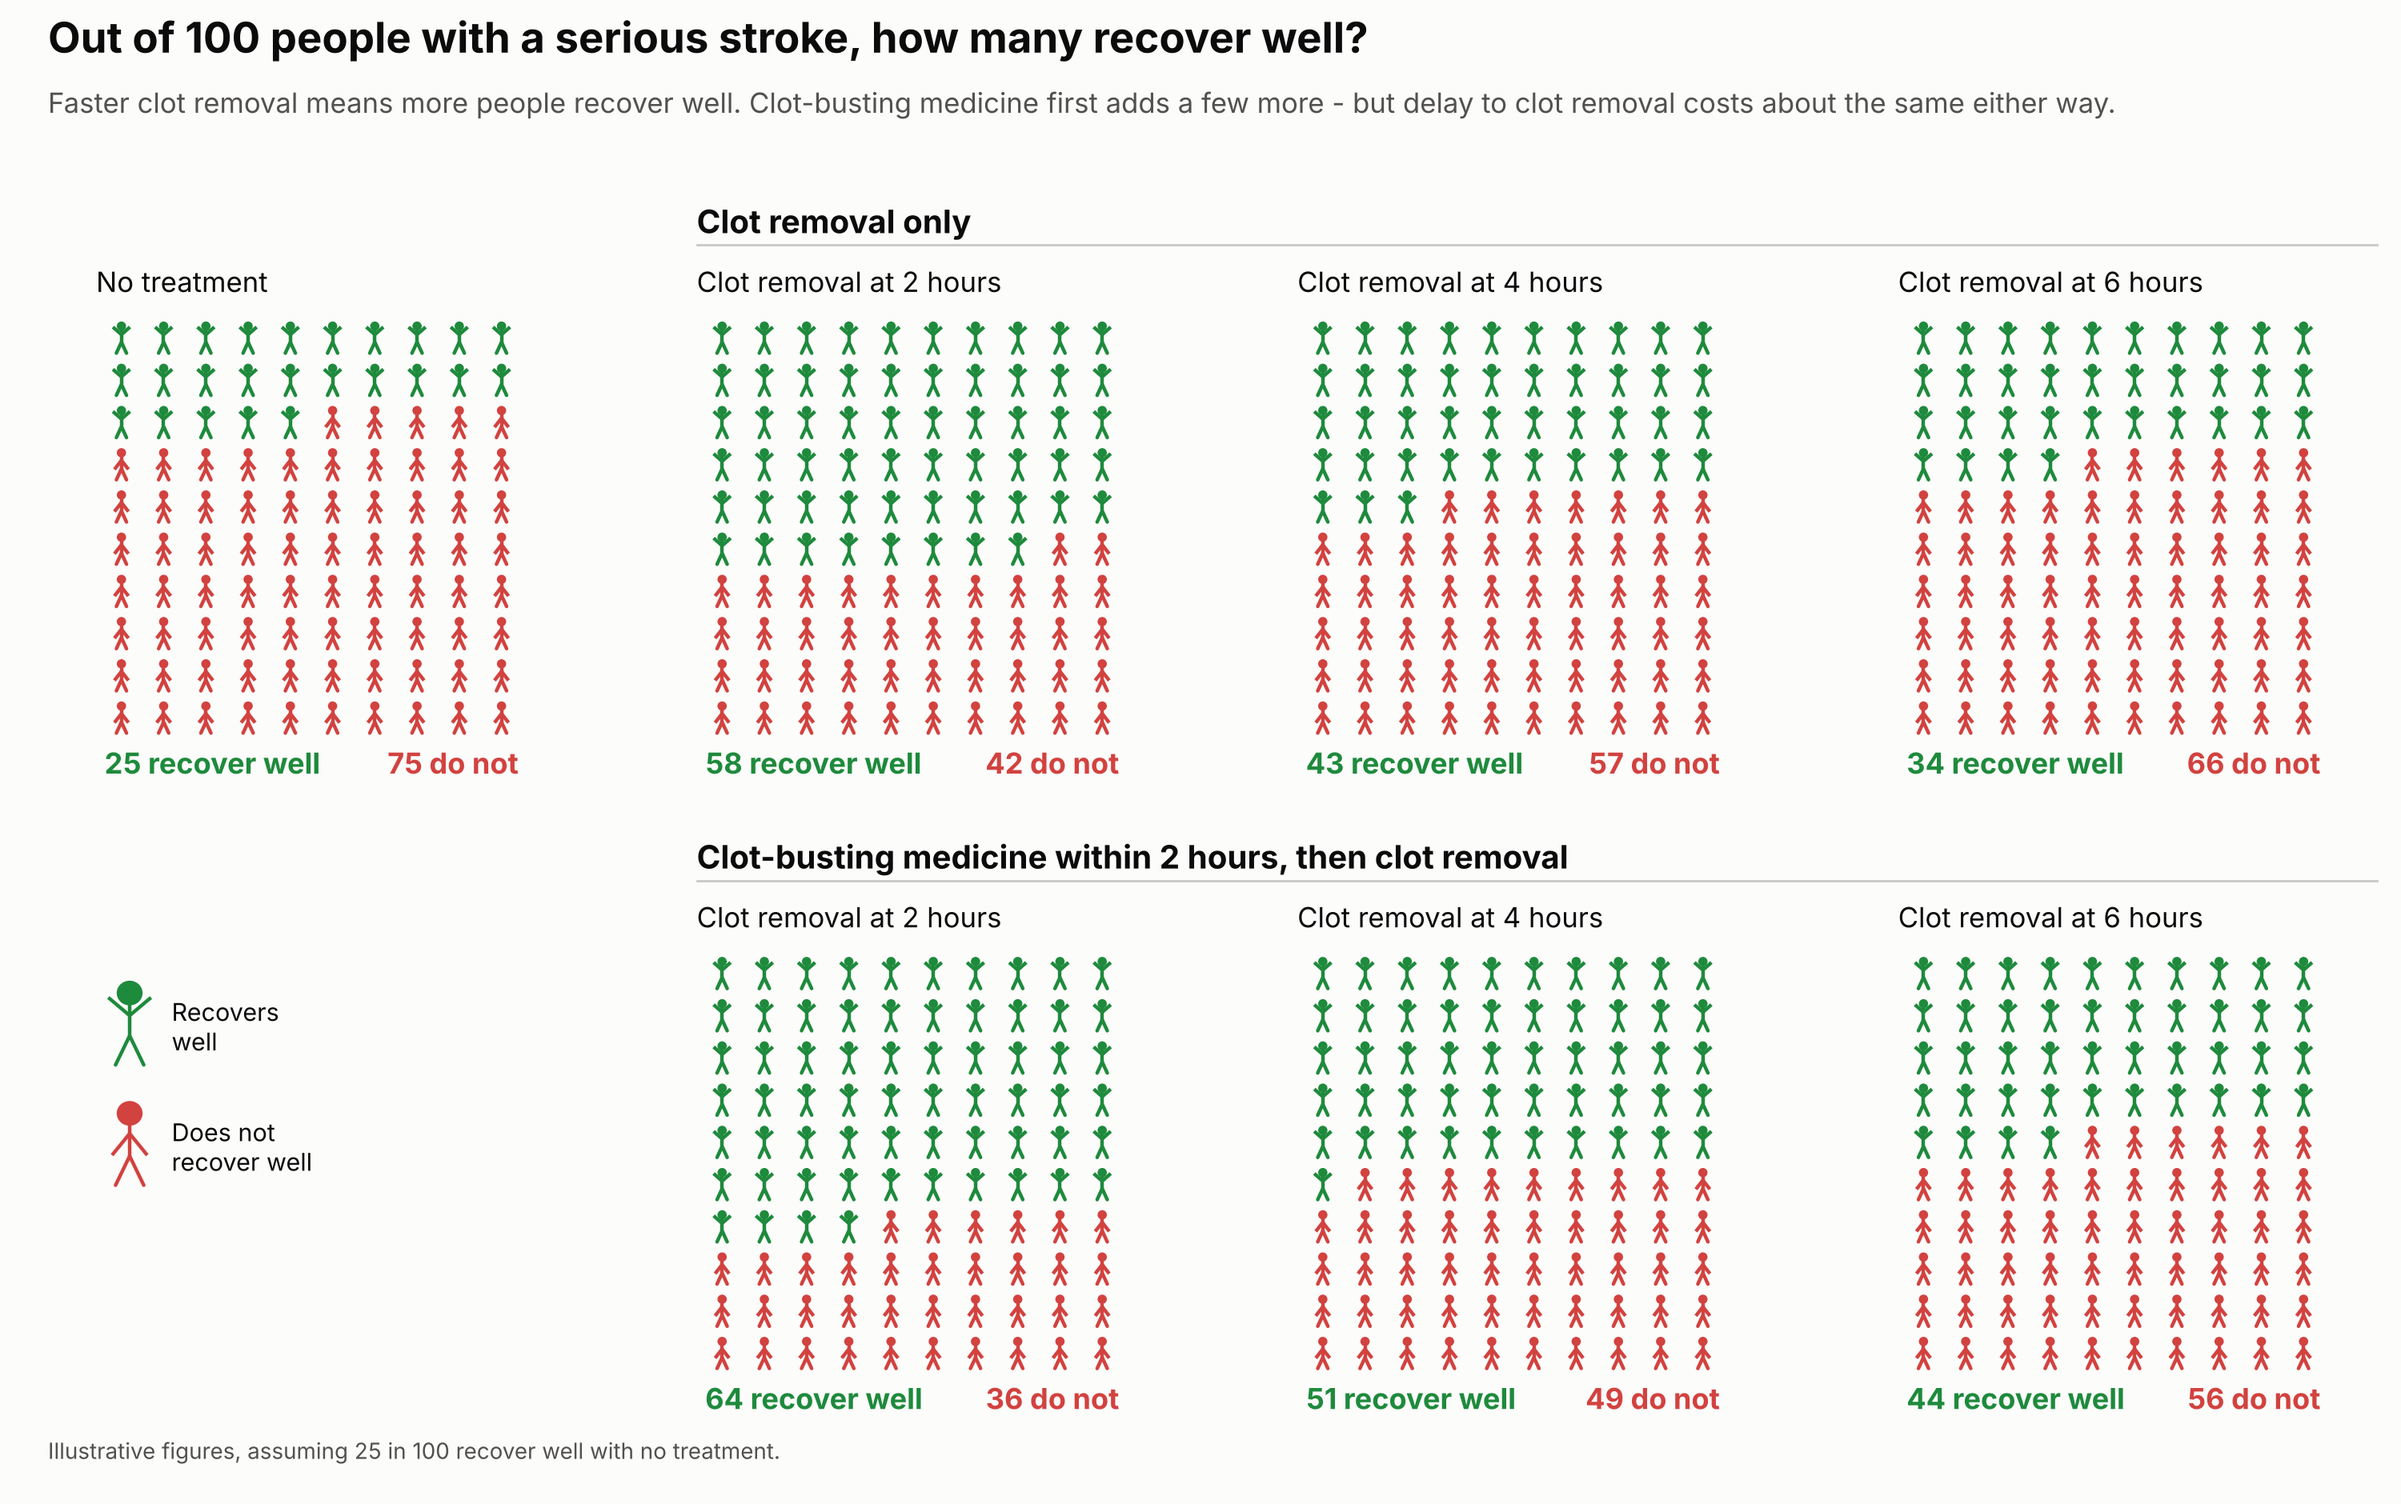
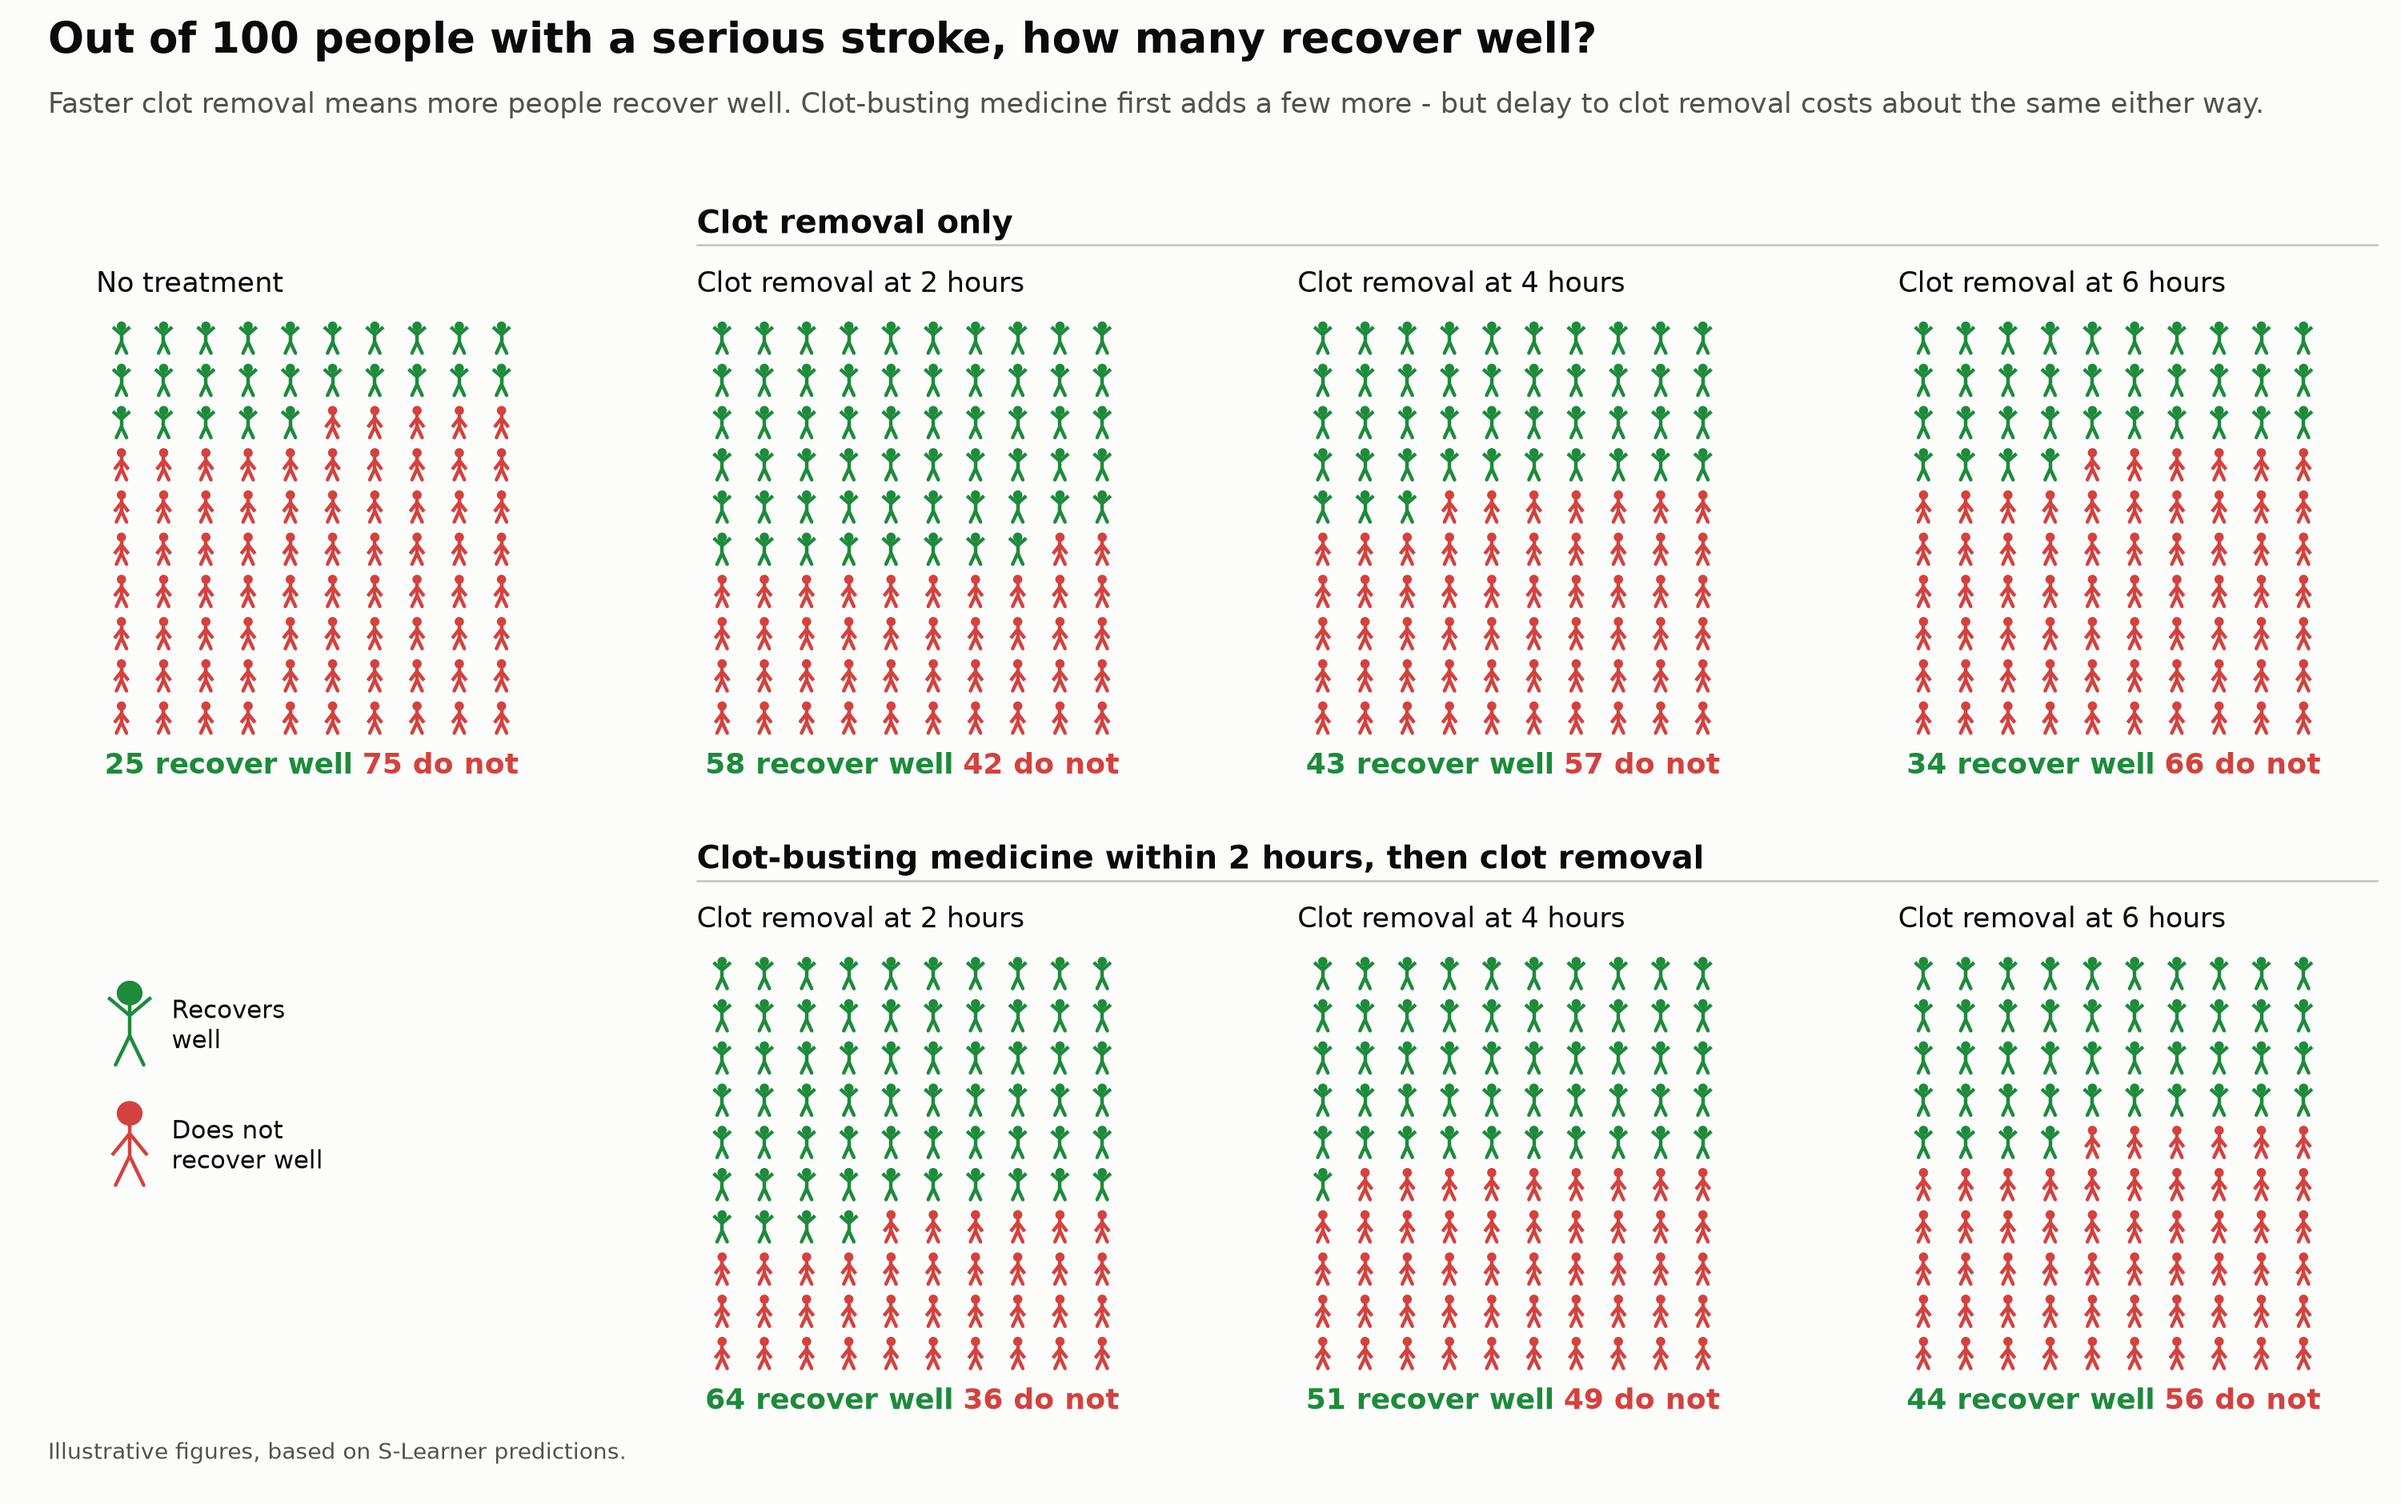
Add stickment code

diff --git a/misc/stickmen_rows.py b/misc/stickmen_rows.py
@@ -1,0 +1,90 @@
+"""Each scenario as one horizontal line of 100 people (green = recovers well).
+
+logit(p) = logit(BASELINE) + net benefit (log odds ratio, read by eye from the S-learner figure).
+"""
+import numpy as np
+import matplotlib.pyplot as plt
+from matplotlib.patches import Circle, Rectangle
+
+BASELINE = 0.25
+IVT_ONLY = 0.74   # log OR, IVT at 2 h without thrombectomy (interpolated from 60-120 and 120-180 bins)
+LOR = {"none": {2: 1.43, 4: 0.81, 6: 0.43, 8: 0.27, 10: 0.10},
+       "ivt":  {2: 1.66, 4: 1.13, 6: 0.85, 8: 0.73, 10: 0.70}}
+
+GOOD, BAD = "#1e8a3c", "#e3a3a1"
+ANYWAY, HILITE = "#9cc7a7", "#d9efdf"
+INK, MUTED, SURF, RULE = "#0b0b0b", "#52514e", "#fcfcfb", "#d6d5d0"
+
+
+def n_good(lor):
+    lo = np.log(BASELINE / (1 - BASELINE)) + lor
+    return int(round(100 / (1 + np.exp(-lo))))
+
+
+VS = 2.0  # vertical stretch of each figure
+
+
+def stickman(ax, x, y, good, c=None):
+    c = c or (GOOD if good else BAD)
+    lw = 1.8
+    ax.plot(x, y + 0.62 * VS, "o", ms=5.2, color=c, mew=0)
+    ax.plot([x, x], [y + 0.40 * VS, y - 0.15 * VS], color=c, lw=lw, solid_capstyle="round")
+    arms = [y + 0.58 * VS, y + 0.22 * VS, y + 0.58 * VS] if good else [y - 0.10 * VS, y + 0.25 * VS, y - 0.10 * VS]
+    ax.plot([x - 0.32, x, x + 0.32], arms, color=c, lw=lw, solid_capstyle="round")
+    ax.plot([x - 0.26, x, x + 0.26], [y - 0.72 * VS, y - 0.15 * VS, y - 0.72 * VS], color=c, lw=lw,
+            solid_capstyle="round")
+
+
+# (group header or None, row label, n good)
+BASE_N = n_good(0.0)
+rows = [("No treatment", "", n_good(0.0)),
+        ("Clot-busting medicine at 2 hours only", "", n_good(IVT_ONLY))]
+for key, head in [("none", "Clot removal only"), ("ivt", "Clot-busting medicine within 2 hours, then clot removal")]:
+    for i, t in enumerate([2, 4, 6, 8]):
+        rows.append((head if i == 0 else None, f"at {t} hours", n_good(LOR[key][t])))
+
+ROW_H, HEAD_H = 2.4 * VS, 1.5 * VS
+X0 = 0          # first figure x
+fig, ax = plt.subplots(figsize=(17, 6), dpi=200, facecolor=SURF)
+ax.set_facecolor(SURF); ax.axis("off")
+
+y = 0
+for head, lab, k in rows:
+    if head:
+        y -= HEAD_H if y else 1.0 * VS
+        ax.text(-24, y + 0.1 * VS, head, fontsize=14, fontweight="bold", color=INK, va="center")
+        ax.plot([-24, 131], [y - 0.55 * VS] * 2, color=RULE, lw=0.8)
+        y -= ROW_H * 0.72
+    xpos = lambda i: X0 + i + 0.5 * (i // 10)   # small gap every 10 people to help counting
+    if k > BASE_N:   # highlight the extra people who recover because of treatment
+        ax.add_patch(Rectangle((xpos(BASE_N) - 0.55, y - 0.9 * VS), xpos(k - 1) - xpos(BASE_N) + 1.1,
+                               1.8 * VS, color=HILITE, lw=0, zorder=0))
+    for i in range(100):
+        col = ANYWAY if i < BASE_N else (GOOD if i < k else BAD)
+        stickman(ax, xpos(i), y, i < k, col)
+    ax.text(-22, y, lab, fontsize=13, color=INK, va="center")
+    ax.text(106, y + 0.25 * VS, f"{k} recover well", fontsize=13, fontweight="bold", color=INK,
+            va="center", ha="left")
+    if k > BASE_N:
+        ax.text(106, y - 0.45 * VS, f"+{k - BASE_N} because of treatment", fontsize=11.5,
+                color=GOOD, fontweight="bold", va="center", ha="left")
+    y -= ROW_H
+
+XL, XR, YT, YB = -25, 132, 0.0, y - 0.3 * VS
+ax.set_xlim(XL, XR); ax.set_ylim(YB, YT)
+W = 17; plot_h = W * 0.98 * (YT - YB) / (XR - XL)
+FOOT = 0.45
+fig.set_size_inches(W, plot_h + 1.3 + FOOT)
+top = (plot_h + FOOT) / (plot_h + 1.3 + FOOT)
+fig.text(0.02, 1 - 0.45 / (plot_h + 1.3 + FOOT), "Every hour before clot removal (thrombectomy) counts – even after clot-busting medicine (thrombolysis)",
+         fontsize=18, fontweight="bold", color=INK, va="center")
+fig.text(0.02, 1 - 0.85 / (plot_h + 1.3 + FOOT), "Out of 100 people with a serious stroke, how many recover well?   Pale green: would recover anyway.   "
+         "Highlighted: extra people who recover because of treatment.",
+         fontsize=13.5, color=MUTED, va="center")
+ax.set_position([0.01, FOOT / (plot_h + 1.3 + FOOT), 0.98, top - FOOT / (plot_h + 1.3 + FOOT)])
+fig.text(0.02, 0.22 / (plot_h + 1.3 + FOOT),
+         "These are predicted outcomes from an S-learner (a type of machine learning model), "
+         f"assuming {int(BASELINE * 100)} in 100 people would recover well with no treatment.",
+         fontsize=11, color=MUTED, va="center") 
+fig.savefig("stickmen_rows.png", facecolor=SURF)
+#fig.savefig("stickmen_rows.svg", facecolor=SURF)

diff --git a/misc/stickmen.py b/misc/stickmen.py
@@ -75,11 +75,11 @@ kx, ky = 0.04, 0.20
 axk = fig.add_axes([kx, ky, 0.14, 0.16]); axk.set_xlim(0, 4); axk.set_ylim(0, 3); axk.axis("off")
 stickman(axk, 0.4, 2.2, True, 1.4); axk.text(0.9, 2.2, "Recovers\nwell", va="center", fontsize=11, color=INK)
 stickman(axk, 0.4, 0.7, False, 1.4); axk.text(0.9, 0.7, "Does not\nrecover well", va="center", fontsize=11, color=INK)
-fig.text(0.02, 0.03, f"Illustrative figures, assuming {int(BASELINE*100)} in 100 recover well with no treatment.",
+fig.text(0.02, 0.03, f"Illustrative figures, based on S-Learner predictions.",
          fontsize=10, color=MUTED)
 
 fig.savefig("stickmen_scenarios.png", facecolor=SURF)
-fig.savefig("stickmen_scenarios.svg", facecolor=SURF)
+#fig.savefig("stickmen_scenarios.svg", facecolor=SURF)
 for key in LOR:
     print(key, {t: n_good(v) for t, v in LOR[key].items()})
 print("none", n_good(0))
